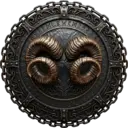
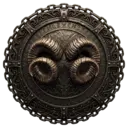
Pictos des peuples : les 10 PNG d'Idan, toile entière
Idan a refait les pictos des peuples en PNG 1024 × 1024 détourés, décontaminés
et à la bonne proportion (Hostinger, media/pictos/Peuple/). Ils remplacent les
anciens masters JPG sur fond blanc (assets-src/Picto/Peuple/, README) ;
build-pictos.sh les réduit en 128 × 128 sans recadrer (« ce qui compte ici,
c'est la taille extérieure du png »). Cultures, ascendances et écoles
inchangées ; charte/assets.json à jour.

Claude-Session: https://claude.ai/code/session_01EeJJTXzBZEvAnWuDndFYuJ

diff --git a/assets-src/README.md b/assets-src/README.md
@@ -7,7 +7,7 @@ Dépôt des fichiers **bruts** (masters) d'Idan et de Jean-Mimi. Ce dossier n'es
 | `fonds/` | Fonds d'écran : château du camp (menu principal et home du camp), autres décors. `fonds/Dortoirs/` : un fond par niveau de qualité du dortoir (Jean-Mimi, `dortoir-0.jpg` à `dortoir-10.jpg`) ; `scripts/build-dormitory.sh` régénère les versions du jeu (`prototype-web/assets/dormitory/`) |
 | `logo/` | Logo Blood & Wages : master sur fond blanc, variantes |
 | `avatars/` | Vocabulaire des mots-clés Bridge des avatars (`avatars/mots-cles-bridge.txt`). **Les avatars eux-mêmes sont sur Hostinger, dans `media/avatars/`** (voir `docs/DEPLOYMENT.md`) : depuis le 2026-10-21, c'est leur seul emplacement (décision d'Idan) ; les anciens avatars de Git ont été retirés. |
-| `Picto/Peuple/`, `Picto/Ascendance/` | Pictos des peuples et des ascendances. Après un ajout ou une retouche, `scripts/build-pictos.sh` régénère les versions du jeu (`prototype-web/assets/pictos/`) |
+| `Picto/Peuple/`, `Picto/Ascendance/` | Pictos des peuples (PNG détourés par Idan, voir `Picto/Peuple/README.md`) et des ascendances. Après un ajout ou une retouche, `scripts/build-pictos.sh` régénère les versions du jeu (`prototype-web/assets/pictos/`) |
 | `Equipements/Armures/`, `Equipements/Armes/`, `Equipements/Frames/` | Images des objets par tier (T1 à T4, fond noir) et cadres de tier. Noms : `<Nom>_<tier>.jpg` (voir `Equipements/README.md`). Après un ajout, `node scripts/build-equipment.js` régénère les versions du jeu (`prototype-web/assets/equipment/`) |
 | `Sorts/<École>/` | Icônes des sorts (Idan, 2026-10-25) : un parchemin par sort, nommé par le code du sort (`quick_heal.jpg`…, voir `data/reference/spells.json`), et `cadre.jpg`, le cadre commun de l'école. `scripts/build-spells.sh` régénère les versions du jeu (`prototype-web/assets/spells/`) et détoure le centre du cadre |
 | `Potions/` | Icônes des potions et fioles, nommées par leur code (voir son README) |

diff --git a/assets-src/Picto/Peuple/README.md b/assets-src/Picto/Peuple/README.md
@@ -1,0 +1,21 @@
+# Pictos des peuples — masters d'Idan (2026-11-15)
+
+Déposés sur Hostinger dans `media/pictos/Peuple/` : PNG 1024 × 1024 déjà détourés, décontaminés et à la bonne
+proportion (Idan : « Ce qui compte ici, c'est la taille extérieure du png, pas l'intérieur »). Renommés ici d'après le
+peuple (slug du nom, comme `prototype-web/picto-ui.js`) et réduits **toile entière, sans recadrage** par
+`scripts/build-pictos.sh` en `prototype-web/assets/pictos/peuple-<slug>.webp` (128 × 128).
+
+| Fichier | Peuple | Fichier d'origine sur Hostinger |
+|---|---|---|
+| `peuple-elfe.png` | Elfe | `elfes.png` |
+| `peuple-gnome.png` | Gnome | `gnomes.png` |
+| `peuple-gobelin.png` | Gobelin | `gobelins.png` |
+| `peuple-halfling.png` | Halfling | `halflings.png` |
+| `peuple-homme-bete.png` | Homme-bête | `beastmen.png` |
+| `peuple-humain.png` | Humain | `humain.png` |
+| `peuple-nain.png` | Nain | `nains.png` |
+| `peuple-ogre.png` | Ogre | `ogres.png` |
+| `peuple-orc.png` | Orc | `orcs.png` |
+| `peuple-reptilien.png` | Reptilien | `reptilien.png` |
+
+Les anciens masters JPG sur fond blanc (détourés par le script) sont remplacés ; ils restent dans l'historique git.
